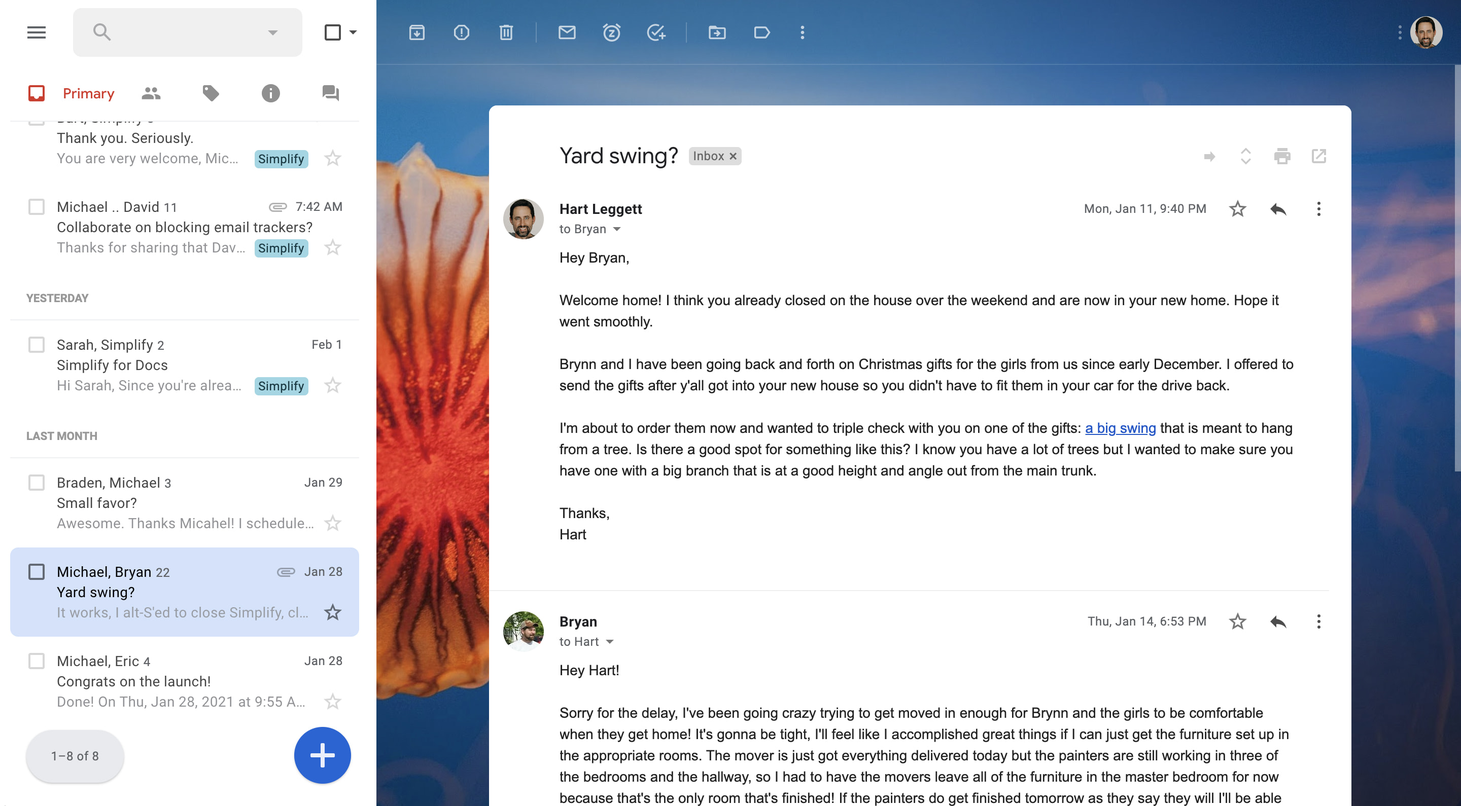
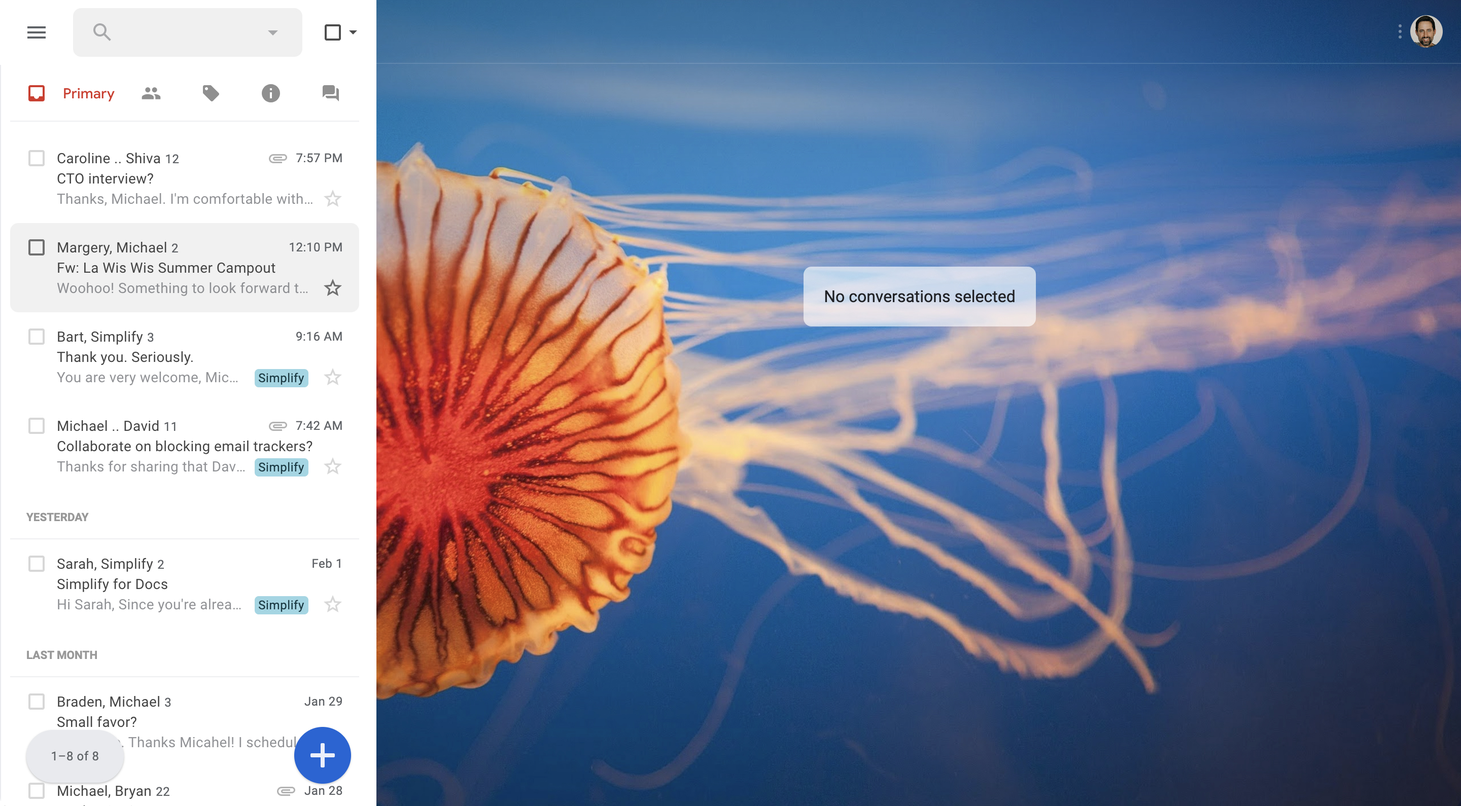
Update screenshots

diff --git a/index.html b/index.html
@@ -58,7 +58,7 @@
       <div class="screen"><div class="image s01"></div></div>
       <div class="screen"><div class="image s02"></div></div>
       <div class="screen"><div class="image s03"></div></div>
-      <!-- <div class="screen"><div class="image s04"></div></div> -->
+      <div class="screen"><div class="image s04"></div></div>
       <div class="screen"><div class="image s05"></div></div>
       <div class="screen"><div class="image s06"></div></div>
       <!-- <div class="screen"><div class="image s07"></div></div> -->

diff --git a/styles.css b/styles.css
@@ -239,7 +239,7 @@ blockquote {
   background-image: url("./screens/v2/03-inbox-readingPane-theme.jpg");
 }
 .image.s04 {
-  background-image: url("./screens/v2/04-readingPane.png");
+  background-image: url("./screens/v2/04-readingPane.jpg");
 }
 .image.s05 {
   background-image: url("./screens/v2/05-inbox.png");
